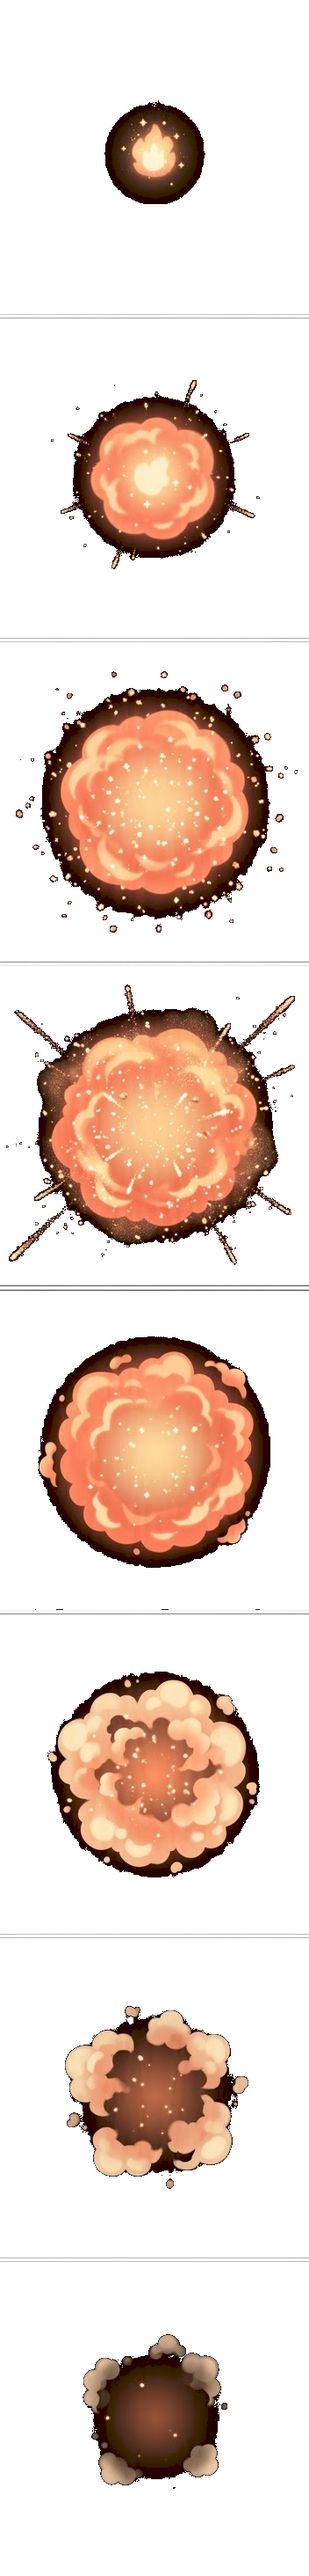
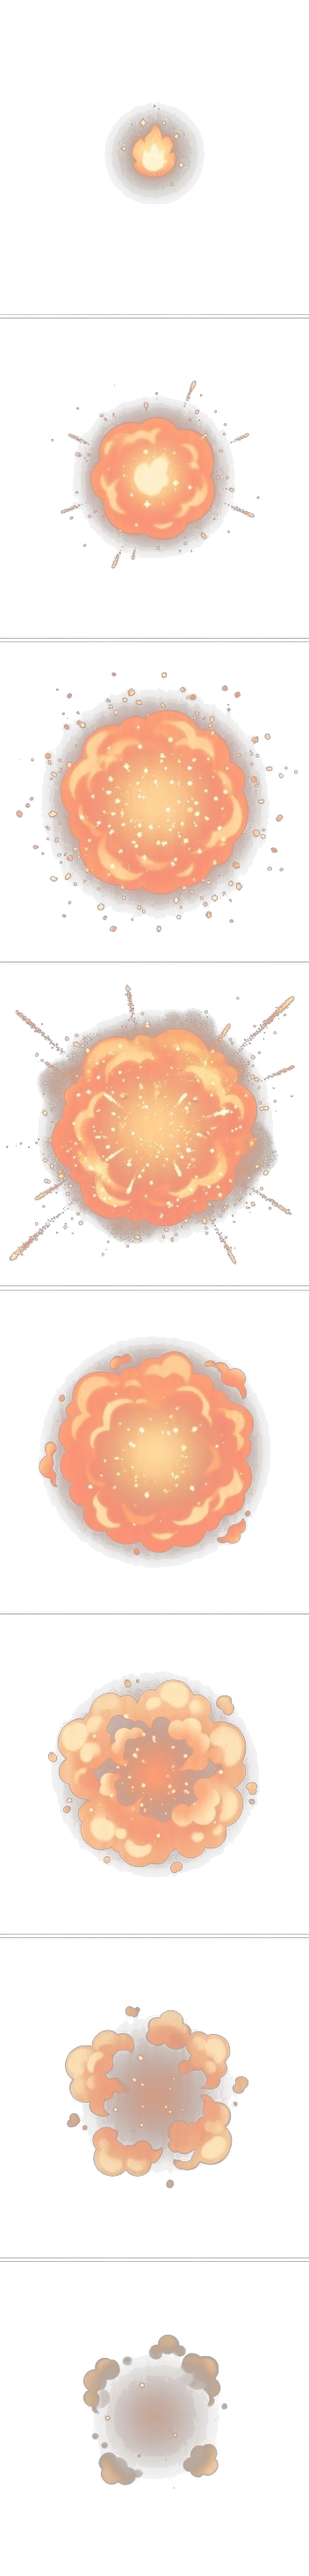
Fix VFX white-halo edges, tone down intensity, tighten star hitbox
- Reprocess all 9 flipbook sheets: alpha now follows luminance instead of
  a hard 1-bit cutoff, so the soft glow fades out cleanly — kills the boxy
  white halo that showed around every effect on the game background, and
  stops the additive blowout
- Zero the frame-boundary rows on centered sheets to remove a thin bright
  seam line bleeding between frames
- vfxHitRing: lower ring alpha and spark count so hits stop spraying white
  rings across the screen
- frost nova / cream wave: ramp sprite alpha with skill level (faint early,
  bold at high level) per feedback that effects were too grand from level 1
- star ring: setCircle(4,2,2) centers and tightens the orbit-ball hitbox
  (was radius 5 pinned to the corner — felt like it hit from too far)
- Verified in headless browser: 0 errors, halos gone

Claude-Session: https://claude.ai/code/session_01LoRYoPU9RiJjfxpaGpR3Bu

diff --git a/game.js b/game.js
@@ -1893,7 +1893,7 @@ class Game extends Phaser.Scene {
       const tier=aw?(i%3):(twoRing?(i%2===0?0:2):0);   // aw: 3 ชั้น (0=นอก,1=กลาง,2=ใน)
       const rr=tier===0?rOuter:tier===1?rMid:rInner;
       const b=this.camWorld(this.physics.add.image(0,0,'dot').setTint(tier===0?0xffe08a:tier===1?0xffd0e8:0xfff2a8).setScale(size).setDepth(88000));
-      b.setCircle(5); b.body.setAllowGravity(false); b.dmg=(4+lvl*1.5)*(aw?1.6:1)*(isSesame?1.15:1); b.hitCd=0;
+      b.setCircle(4,2,2); b.body.setAllowGravity(false); b.dmg=(4+lvl*1.5)*(aw?1.6:1)*(isSesame?1.15:1); b.hitCd=0;   // hitbox แน่นขึ้น+อยู่กลางดวง (เดิม 5 เยื้องมุม = โกง)
       b.rr=rr; b.ang0=(i/count)*Math.PI*2;
       this.physics.add.overlap(b,this.enemies,(ball,en)=>{ if(ball.hitCd>0)return; ball.hitCd=isSesame?0.09:0.12;
         this.damage(en,ball.dmg*this.player.dmgMul,ball.x,ball.y);
@@ -2019,7 +2019,7 @@ class Game extends Phaser.Scene {
     else if(key==='frost'){
       const df=this.player.deepFreeze?1.4:1;
       const r=(140+lvl*14)*(aw?2.6:1)*df, dur=(1+lvl*0.22)*(aw?1.6:1)*df, dmg=(lvl>=3||aw||this.player.deepFreeze)?(6+lvl*2)*dm*(aw?1.8:1)*df:0, shatter=lvl>=5||aw||this.player.deepFreeze;
-      if(this.textures.exists('fx_frostnova')&&this.anims.exists('fx_frostnova')) this.spawnFxAnim('fx_frostnova',this.player.x,this.player.y,{scale:(2*r)/ASSET_FX.fx_frostnova.fw,depth:3,anchor:'center'});
+      if(this.textures.exists('fx_frostnova')&&this.anims.exists('fx_frostnova')) this.spawnFxAnim('fx_frostnova',this.player.x,this.player.y,{scale:(2*r)/ASSET_FX.fx_frostnova.fw*0.82,depth:3,anchor:'center',alpha:Math.min(1,0.5+lvl*0.1)});
       else if(this.textures.exists('fx_frost')) this.fxBurst('fx_frost',this.player.x,this.player.y,r,aw?520:380,true);
       else { const ring=this.camWorld(this.add.circle(this.player.x,this.player.y,12,COLORS.ice,0.4).setDepth(3));
         this.tweens.add({targets:ring,radius:r,alpha:0,duration:320,onComplete:()=>ring.destroy()}); }
@@ -2124,7 +2124,7 @@ class Game extends Phaser.Scene {
     this.time.delayedCall(delay,()=>{ if(this.state!=='play'&&this.state!=='levelup')return;
       const px=this.player.x, py=this.player.y, hit=new Set();
       this.hitCratesInRadius(px,py,maxR,dmg);
-      if(this.textures.exists('fx_wave')&&this.anims.exists('fx_wave')) this.spawnFxAnim('fx_wave',px,py,{scale:(2*maxR)/ASSET_FX.fx_wave.fw,depth:3,anchor:'center'});
+      if(this.textures.exists('fx_wave')&&this.anims.exists('fx_wave')){ const wl=this.skills.wave||1; this.spawnFxAnim('fx_wave',px,py,{scale:(2*maxR)/ASSET_FX.fx_wave.fw,depth:3,anchor:'center',alpha:Math.min(1,0.5+wl*0.1)}); }
       const ring=this.camWorld(this.add.circle(px,py,10,0xbfe8ff,0).setDepth(3).setStrokeStyle(5,0xffffff,0.85));
       this.tweens.add({targets:ring,radius:maxR,alpha:{from:0.9,to:0},duration:420,ease:'Quad.out',
         onUpdate:()=>{ const rr=ring.radius; this.enemies.children.iterate(e=>{ if(e&&e.active&&!hit.has(e)){ const d=this.dist(e.x,e.y,px,py);
@@ -2467,10 +2467,10 @@ class Game extends Phaser.Scene {
   // --- VFX: hit impact ring (expanding ring + sparks) --- throttled for performance
   vfxHitRing(x,y,color,big){
     if(!big){ this._hitVfxT=this._hitVfxT||0; const now=this.time.now; if(now-this._hitVfxT<60)return; this._hitVfxT=now; }
-    const r=big?1.8:1.0;
-    const ring=this.camWorld(this.add.image(x,y,'vfx_ring').setTint(color).setDepth(7).setScale(0.15*r,0.12*r).setAlpha(0.85));
-    this.tweens.add({targets:ring,scaleX:1.6*r,scaleY:1.3*r,alpha:0,duration:big?320:220,ease:'Quad.out',onComplete:()=>ring.destroy()});
-    this._emit(this.pSpark,x,y,color,big?8:4);
+    const r=big?1.6:0.85;
+    const ring=this.camWorld(this.add.image(x,y,'vfx_ring').setTint(color).setDepth(7).setScale(0.15*r,0.12*r).setAlpha(big?0.6:0.3));  // เบาลง ไม่สาดขาวเต็มจอ
+    this.tweens.add({targets:ring,scaleX:1.4*r,scaleY:1.15*r,alpha:0,duration:big?300:200,ease:'Quad.out',onComplete:()=>ring.destroy()});
+    this._emit(this.pSpark,x,y,color,big?7:3);
   }
   // --- VFX: death poof (smoke cloud) ---
   vfxDeathPoof(x,y,color,big){
